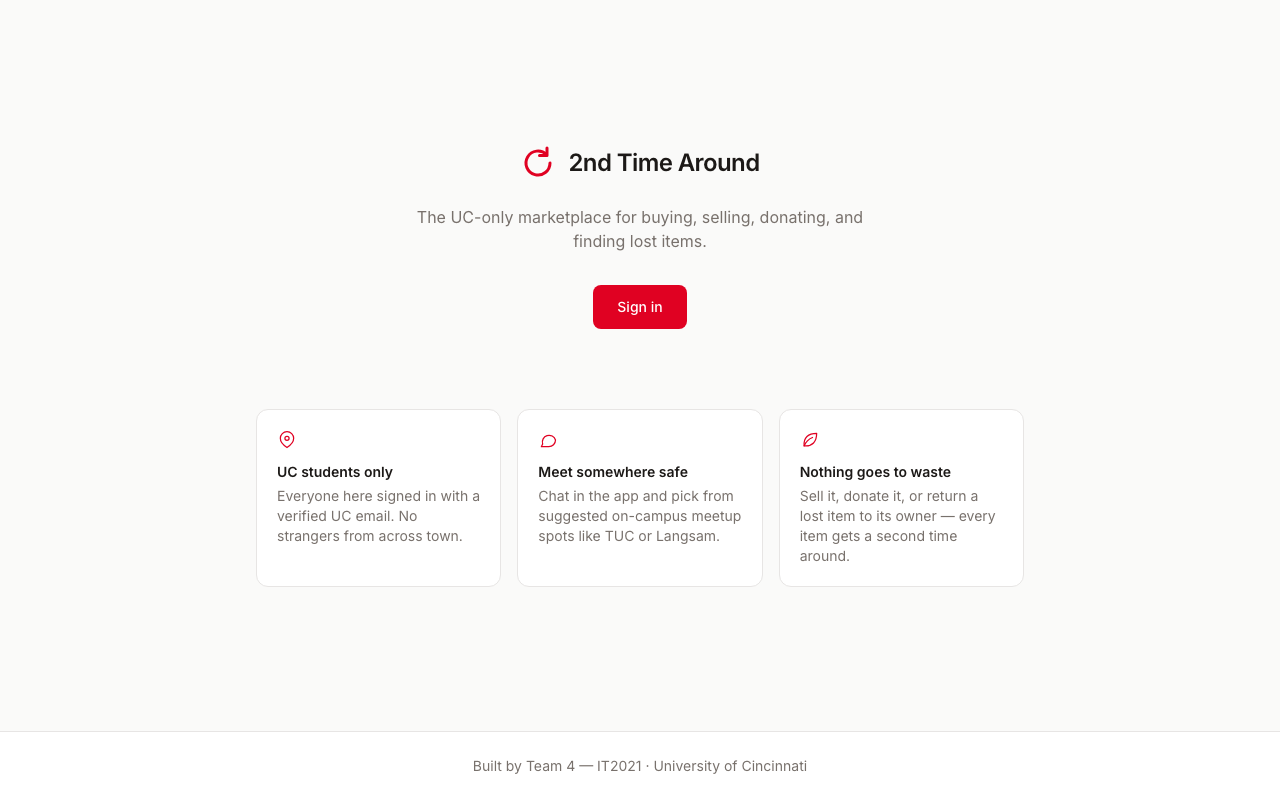
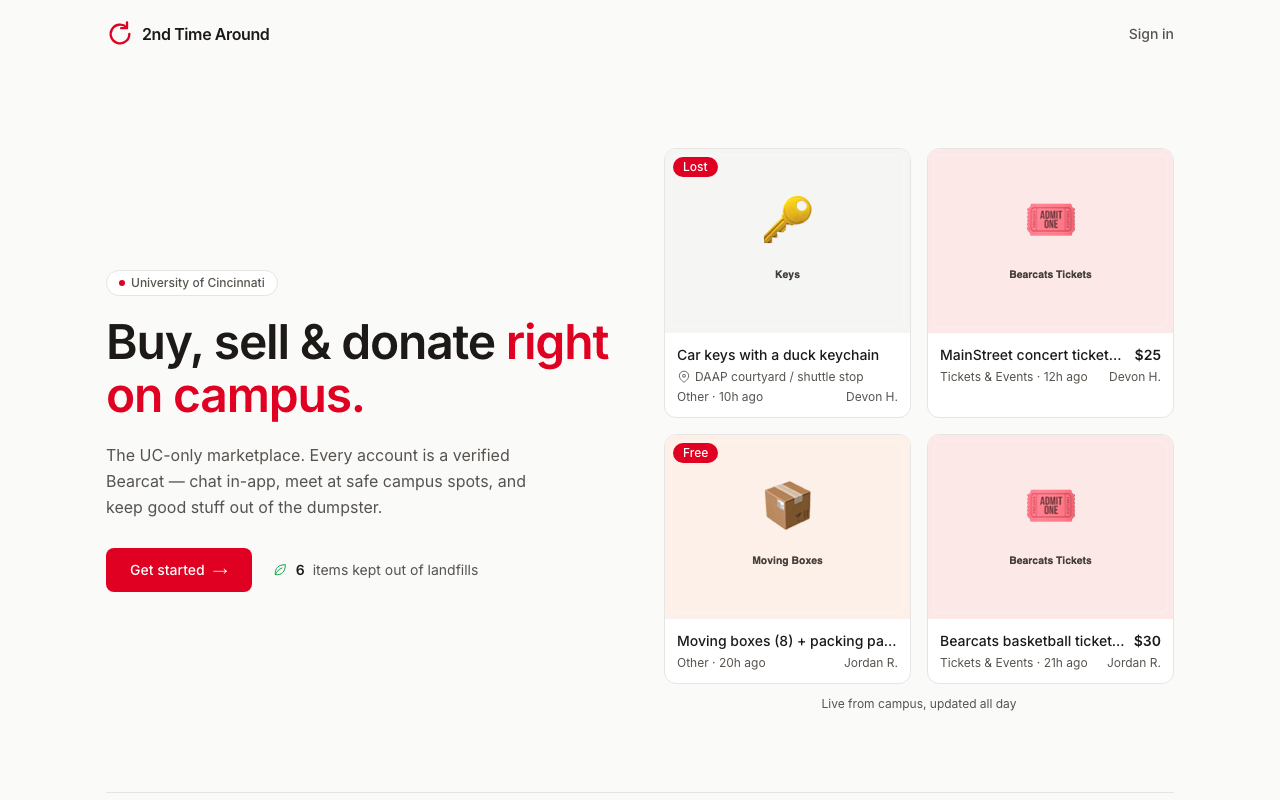
docs: refresh landing screenshot for the redesign + add mobile landing
Recaptures docs/screenshots/landing.png to match the new live-campus-preview
hero, and adds docs/screenshots/landing-mobile.png showing the responsive
mobile layout. Captured from the live production deployment.

diff --git a/README.md b/README.md
@@ -80,6 +80,10 @@ ceremony.
 | --- | --- |
 | ![Landing page](docs/screenshots/landing.png) | ![Persona picker](docs/screenshots/signin-picker.png) |
 
+| Landing on mobile | |
+| --- | --- |
+| ![Landing on mobile](docs/screenshots/landing-mobile.png) | |
+
 | Browse (Marketplace) | Lost & Found |
 | --- | --- |
 | ![Browse marketplace](docs/screenshots/browse-marketplace.png) | ![Lost and found tab](docs/screenshots/browse-lostfound.png) |
